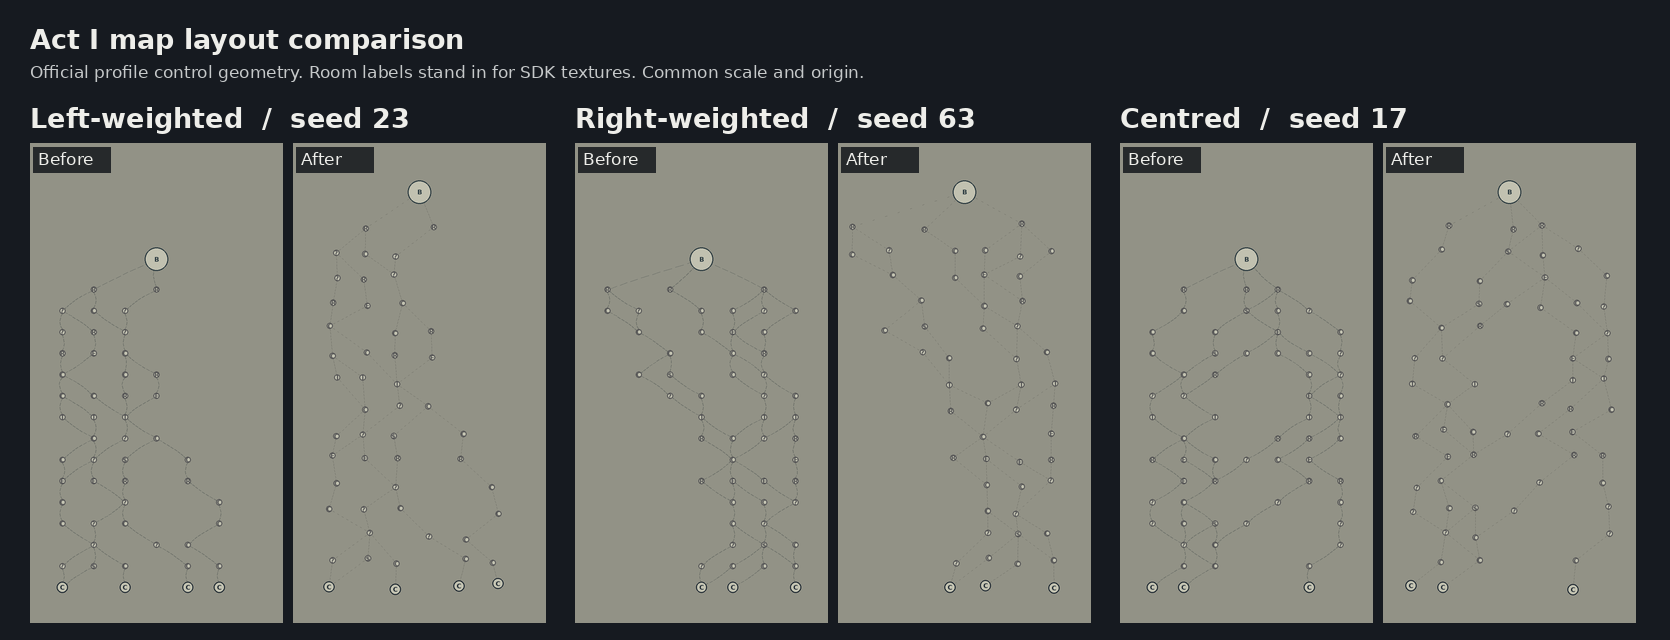
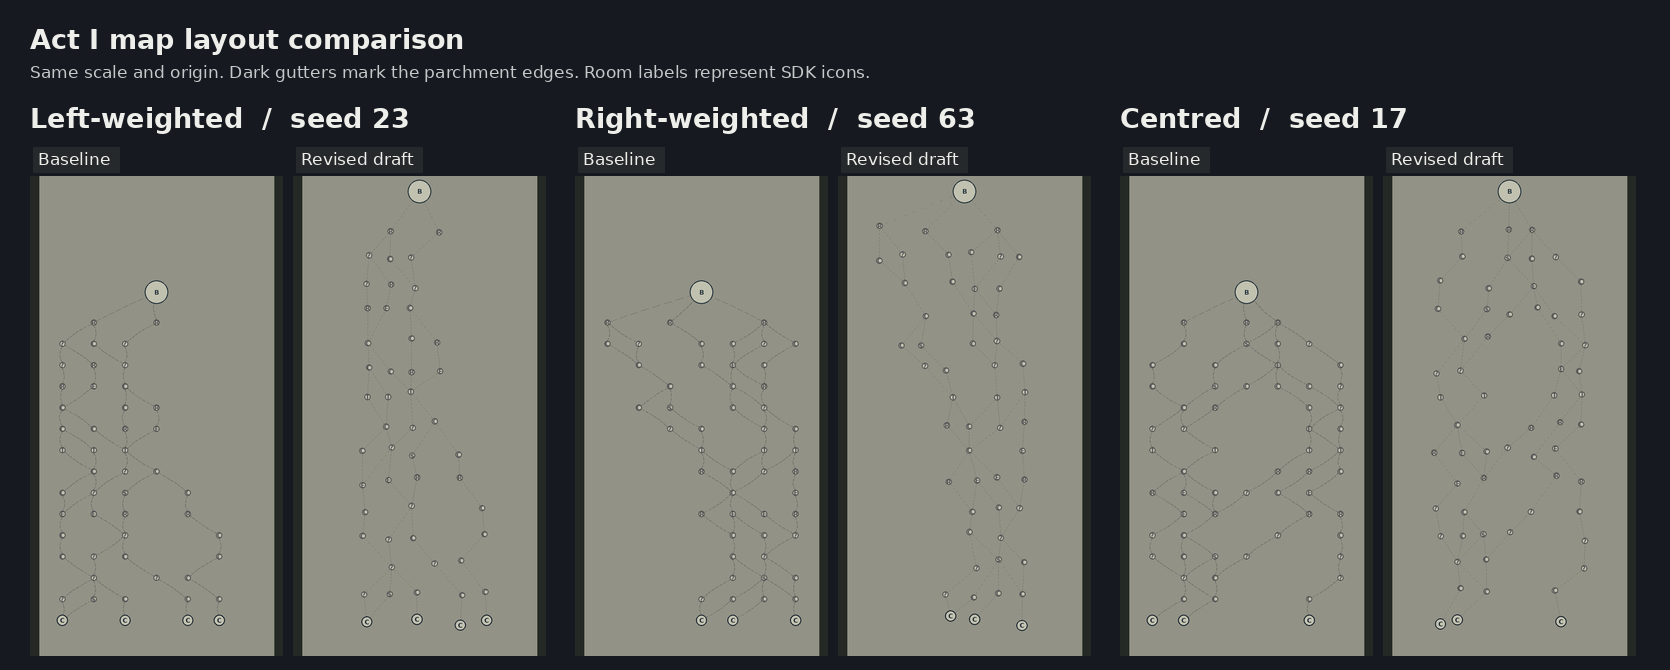
fix(map): match STS1 paper margins and hover feedback
[skip ci]

diff --git a/docs/evidence/v2.3.0-map-layout/compare.py b/docs/evidence/v2.3.0-map-layout/compare.py
@@ -41,17 +41,45 @@ def measurements(rows):
     }
 
 
-def projection(directory, seed, scale):
-    paper = Image.new("RGBA", (253 * 3, 480 * 3), "#929286")
+def starting_rows(directory):
+    sparse = []
+    for line in (directory / "batch.tsv").read_text().splitlines():
+        if not line.startswith("ENTRY\t"):
+            continue
+        _, seed, act, lanes, anchors = line.split("\t")
+        slots = list(map(int, lanes.split(",")))
+        xs = list(map(float, anchors.split(",")))
+        if len(slots) <= 3:
+            sparse.append((seed, act, slots, xs))
+    return {
+        "mapsWithTwoOrThreeEntrances": len(sparse),
+        "allEntranceColumnsOnOneSide": sum(max(slots)<4 or min(slots)>4 for _, _, slots, _ in sparse),
+        "allEntranceAnchorsOnOneSide": sum(max(xs)<0 or min(xs)>0 for _, _, _, xs in sparse),
+        "examples": [
+            {"seed": seed, "act": act, "lanes": slots, "anchors": xs}
+            for seed, act, slots, xs in sparse if (seed, act) in {("4", "1"), ("19", "1"), ("49", "2")}
+        ],
+    }
+
+
+def projection(directory, seed, scale, width=253, height=480, origin_y=375):
+    paper = Image.new("RGBA", (width * 3, height * 3), "#252925")
+    # The official map clips nodes in a wider viewport than the parchment.
+    # Keep both physical paper edges visible to expose the route margins.
+    paper_left = round((width / 2 - 418.5 * scale) * 3)
+    paper_right = round((width / 2 + 419.5 * scale) * 3)
+    ImageDraw.Draw(paper).rectangle((paper_left, 0, paper_right, paper.height), fill="#929286")
     plane = Image.new("RGBA", paper.size)
     draw = ImageDraw.Draw(plane)
     font = ImageFont.truetype("DejaVuSans-Bold.ttf", 19)
     points = []
     for line in (directory / "draw.tsv").read_text().splitlines():
-        tag, key, kind, x, y, first, second, last, tint = line.split("\t")
-        if tag != "DRAW" or int(key) != seed:
+        if not line.startswith("DRAW\t"):
             continue
-        px, py = (126.5 + float(x) * scale) * 3, (375 - float(y) * scale) * 3
+        _, key, kind, x, y, first, second, last, tint = line.split("\t")
+        if int(key) != seed:
+            continue
+        px, py = (width / 2 + float(x) * scale) * 3, (origin_y - float(y) * scale) * 3
         rgba = tuple(map(int, tint.split(",")))
         if kind == "node":
             points.append((px, py - float(second) * scale * 3, GLYPHS[last], float(first), rgba))
@@ -63,36 +91,90 @@ def projection(directory, seed, scale):
         radius = min(22, size * scale * .5) * 3
         draw.ellipse((x-radius, y-radius, x+radius, y+radius), fill=(193, 193, 176, 255), outline=rgba, width=3)
         draw.text((x, y), label, font=font, fill=rgba, anchor="mm")
-    return Image.alpha_composite(paper, plane).resize((253, 480), Image.Resampling.LANCZOS).convert("RGB")
+    return Image.alpha_composite(paper, plane).resize((width, height), Image.Resampling.LANCZOS).convert("RGB")
+
+
+def comparison_sheet(before, after, before_caption, after_caption, output):
+    canvas = Image.new("RGB", (1670, 670), "#161A20")
+    draw = ImageDraw.Draw(canvas)
+    title = ImageFont.truetype("DejaVuSans-Bold.ttf", 27)
+    small = ImageFont.truetype("DejaVuSans.ttf", 17)
+    draw.text((30, 23), "Act I map layout comparison", font=title, fill="#EEEEEA")
+    draw.text((30, 62), "Same scale and origin. Dark gutters mark the parchment edges. Room labels represent SDK icons.", font=small, fill="#C6C9CA")
+    for column, (seed, label) in enumerate(SEEDS.items()):
+        x = 30 + column * 545
+        draw.text((x, 102), f"{label}  /  seed {seed}", font=title, fill="#EEEEEA")
+        for offset, directory, caption in ((0, before, before_caption), (263, after, after_caption)):
+            canvas.paste(projection(directory, seed, .28), (x+offset, 176))
+            width = round(draw.textlength(caption, font=small)) + 14
+            draw.rectangle((x+offset+3, 147, x+offset+3+width, 172), fill="#26292B")
+            draw.text((x+offset+8, 149), caption, font=small, fill="#EEEEEA")
+    canvas.save(output)
+
+
+def hover_sample(directory, output):
+    lines = (directory / "draw.tsv").read_text().splitlines()
+    example = next((line for line in lines if line.startswith("HOVER\t17\t")), None)
+    if not example:
+        return
+    _, _, rim, idle_icon, hover_icon, kind, r, g, b, alpha = example.split("\t")
+    assert alpha == "255"
+    rim, idle_icon, hover_icon = map(float, (rim, idle_icon, hover_icon))
+    canvas = Image.new("RGB", (490, 220), "#161A20")
+    draw = ImageDraw.Draw(canvas)
+    label = ImageFont.truetype("DejaVuSans.ttf", 16)
+    glyph = ImageFont.truetype("DejaVuSans-Bold.ttf", 40)
+    draw.text((16, 13), "Available room hover  /  control geometry at 2×", font=label, fill="#EEEEEA")
+    for x, caption, icon in ((16, "Idle", idle_icon), (254, "Mouse hover", hover_icon)):
+        draw.rectangle((x, 43, x+220, 202), fill="#929286")
+        draw.text((x+8, 48), caption, font=label, fill="#17212B")
+        cx, cy = x+110, 129
+        if caption == "Mouse hover":
+            draw.ellipse((cx-rim, cy-rim, cx+rim, cy+rim), outline=(int(r), int(g), int(b)), width=4)
+        draw.ellipse((cx-icon, cy-icon, cx+icon, cy+icon), outline="#17212B", width=2)
+        draw.text((cx, cy), GLYPHS[kind], font=glyph, fill="#17212B", anchor="mm")
+    canvas.save(output)
+
+
+def entrance_sheet(directory, output):
+    scale = .42
+    width, height = 385, round(550 * scale)
+    canvas = Image.new("RGB", (1210, 325), "#161A20")
+    draw = ImageDraw.Draw(canvas)
+    font = ImageFont.truetype("DejaVuSans.ttf", 19)
+    draw.text((15, 12), "Act opening viewport  /  two entrances on their generated columns", font=font, fill="#EEEEEA")
+    for index, (seed, caption) in enumerate(((4, "Act I · seed 4 · lanes 1 and 3"),
+                                               (19, "Act I · seed 19 · lanes 3 and 5"),
+                                               (49, "Act II · seed 49 · lanes 5 and 6"))):
+        x = 15 + index * 400
+        draw.text((x, 50), caption, font=font, fill="#EEEEEA")
+        image = projection(directory, seed, scale, width, height, 242 * scale)
+        canvas.paste(image, (x, 79))
+    canvas.save(output)
 
 
 def main():
     parser = argparse.ArgumentParser()
     for argument in ("before", "after", "output"):
         parser.add_argument(argument, type=Path)
+    parser.add_argument("--previous-draft", type=Path)
+    parser.add_argument("--entrances", type=Path)
     args = parser.parse_args()
     before, original = sweep(args.before)
     after, candidate = sweep(args.after)
     assert original == candidate, "map snapshot or RNG state changed"
     report = {"seedCount": 128, "snapshotSha256": hashlib.sha256(original.encode()).hexdigest(),
-              "before": measurements(before), "after": measurements(after)}
+              "before": measurements(before), "after": measurements(after),
+              "startingRows": starting_rows(args.after)}
     args.output.mkdir(parents=True, exist_ok=True)
     (args.output / "batch-summary.json").write_text(json.dumps(report, indent=2) + "\n")
-    canvas = Image.new("RGB", (1670, 640), "#161A20")
-    draw = ImageDraw.Draw(canvas)
-    title = ImageFont.truetype("DejaVuSans-Bold.ttf", 27)
-    small = ImageFont.truetype("DejaVuSans.ttf", 17)
-    draw.text((30, 23), "Act I map layout comparison", font=title, fill="#EEEEEA")
-    draw.text((30, 62), "Official profile control geometry. Room labels stand in for SDK textures. Common scale and origin.", font=small, fill="#C6C9CA")
-    for column, (seed, label) in enumerate(SEEDS.items()):
-        x = 30 + column * 545
-        draw.text((x, 102), f"{label}  /  seed {seed}", font=title, fill="#EEEEEA")
-        for offset, directory, caption in ((0, args.before, "Before"), (263, args.after, "After")):
-            image = projection(directory, seed, .28)
-            canvas.paste(image, (x+offset, 143))
-            draw.rectangle((x+offset+3, 147, x+offset+80, 172), fill="#26292B")
-            draw.text((x+offset+8, 149), caption, font=small, fill="#EEEEEA")
-    canvas.save(args.output / "before-after.png")
+    comparison_sheet(args.before, args.after, "Baseline", "Revised draft", args.output / "before-after.png")
+    hover_sample(args.after, args.output / "hover.png")
+    if args.entrances:
+        entrance_sheet(args.entrances, args.output / "entrance-rows.png")
+    if args.previous_draft:
+        comparison_sheet(args.previous_draft, args.after, "Previous draft", "Revised draft",
+                         args.output / "draft-comparison.png")
 
 
 if __name__ == "__main__":

diff --git a/docs/evidence/v2.3.0-map-layout/README.md b/docs/evidence/v2.3.0-map-layout/README.md
@@ -1,39 +1,47 @@
 # v2.3.0 地图布局离线证据
 
-TASK-116 · 固定基线 `32a15219aecd145c59cb1b2fcf477e5556766e5d`。采用 STS1 实际反编译源码及三张不同种子的原版画面作为参照。 [源码、实拍和适配参数](REFERENCE.md)
+TASK-116 · 固定基线 `32a15219aecd145c59cb1b2fcf477e5556766e5d`。采用 STS1 实际反编译源码及不同种子的原版画面作为参照。 [源码、实拍和适配参数](REFERENCE.md)
 
-![第一幕偏左、偏右和居中种子的修改前后对照](before-after.png)
+![上一版 Draft 与修订版在相同纸面上的对照](draft-comparison.png)
 
-前后图使用正式配置生成的控件，通过真实 Lua MapUI 绘制并导出坐标、尺寸与颜色。图中房型字母代替 SDK 纹理，六幅图共用横纵比例和原点。前三组对应基线第一幕最偏左、最偏右和居中的种子；原版实拍来自另几个种子，用来比较布局和画法。
+[打开原始基线与修订版对照](before-after.png) · [打开悬停控件几何示意](hover.png) · [打开 STS1 悬停实拍](https://interfaceingame.com/screenshots/slay-the-spire-map/)
+
+投影使用正式配置生成的控件，通过真实 Lua MapUI 绘制并导出坐标、尺寸与颜色。图中房型字母代替 SDK 纹理，六幅图共用横纵比例和原点。前三组对应基线第一幕最偏左、最偏右和居中的种子；原版实拍来自另几个种子，用来比较布局和画法。
 
 | 离线检查 | 基线 | 候选 |
 | --- | ---: | ---: |
 | 种子 × 幕 | 128 × 3 | 128 × 3 |
-| 常规节点横向质心的绝对偏移均值 | 40.28 | 16.63 |
-| 常规节点横向跨度均值 | 664.71 | 711.39 |
+| 常规节点横向质心的绝对偏移均值 | 40.28 | 5.69 |
+| 常规节点横向跨度均值 | 664.71 | 530.99 |
 | 渲染遍历 | 2,816 | 2,816 |
-| 绑定及首绘平均 Lua CPU 时间 | 1.018 ms | 0.885 ms |
-| 滚动重绘平均 Lua CPU 时间 | 0.862 ms | 0.635 ms |
+| 绑定及首绘平均 Lua CPU 时间 | 1.018 ms | 0.804 ms |
+| 滚动重绘平均 Lua CPU 时间 | 0.862 ms | 0.638 ms |
 | 最大节点数 / 已画路线数 | 74 / 85 | 74 / 85 |
 | 正式配置生成控件数 / 单容器最多子控件 | 26,714 / 60 | 26,714 / 60 |
-| 本地打包 Lua 输入大小 | 5,511,922 B | 5,516,970 B |
+| 本地打包 Lua 输入大小 | 5,511,922 B | 5,517,618 B |
 
-384 份地图快照逐字节一致，包含节点、房型、拓扑和地图 RNG 状态。遍历验证同一节点滚动时绝对坐标稳定，热区无重叠，所有可绘房间和路线均能滚动进入视野；常规连线中心线交叉数为零。触控探针按 2556×1179 和正式移动 HUD 的地图上缘，在三个种子上验证选点、跨触点拒绝、背景拖动、回焦、上限首领及存档恢复后触区位置。同一正式配置的生成布局和模板逐字节一致，包含 HUD 与图例。 [批量结果](batch-summary.json)
+384 份地图快照逐字节一致，包含节点、房型、拓扑和地图 RNG 状态。遍历验证同一节点滚动时绝对坐标稳定，热区无重叠，所有可绘房间和路线均能滚动进入视野；常规连线中心线交叉数为零。触控探针按 2556×1179 和正式移动 HUD 的地图上缘，在三个种子上验证选点、跨触点拒绝、背景拖动、回焦、上限首领及存档恢复后触区位置。同一正式配置的生成布局和模板逐字节一致，包含 HUD 与图例。修订版探针还检查全部常规节点在纸内的水平上限，以及可达节点悬停、移出和滚动清除描边。 [批量结果](batch-summary.json)
+
+## 开局稀疏入口
+
+![两个入口的偏左、分布较开、偏右开局视窗](entrance-rows.png)
+
+384 张项目地图中，220 张底层只有两或三个入口。4 张的入口逻辑列全在同一侧，修订后有 9 张的入口实际坐标全在同一侧。例子中，第一幕种子 4 的两个起点仍在第 1、3 列，第一幕种子 19 仍在第 3、5 列，第二幕种子 49 仍在第 5、6 列。上述比例来自项目离线样本。 [原版底层实拍与源码核对](REFERENCE.md#最底一层的稀疏入口)
 
 CPU 时间来自同机 Lua 5.3.6 的纯离线控件仿真，包含原有写入流程。官方编辑器容量、实际渲染帧率和实体触屏待同一候选验收。Draft 保持独立评审状态。
 
 ## 复现
 
-在基线和候选各自的工作树执行。首次使用先安装仓库锁定依赖并拉取构建所需 LFS 对象。两轮分别设置各自的 `ARTIFACT`，并让 `PROBE` 指向候选工作树的 `probe.lua`。
+在基线和候选各自的工作树执行。首次使用先安装仓库锁定依赖并拉取构建所需 LFS 对象。各轮分别设置 `ARTIFACT`，让 `PROBE` 指向候选工作树的 `probe.lua`。修订版运行时设 `MAP_REFINED=1`，另外检查纸边和悬停。基线和上一版 Draft 不设该变量。
 
 ```sh
 node scripts/build-lua-data.mjs data "$ARTIFACT/lua/abyss_data.lua"
-node scripts/build-ui.mjs "$ARTIFACT/lua" --official-assets --native-page-lifecycle
+node --input-type=module -e "import {buildUI} from './scripts/build-ui.mjs'; buildUI(process.argv[1], undefined, {officialAssets:true, nativePageLifecycle:true})" "$ARTIFACT/lua"
 LUA_PATH="$ARTIFACT/lua/?.lua;src/lua/?.lua;;" lua5.3 "$PROBE" > "$ARTIFACT/batch.tsv"
 MAP_CAPTURE='23 63 17' LUA_PATH="$ARTIFACT/lua/?.lua;src/lua/?.lua;;" lua5.3 "$PROBE" > "$ARTIFACT/draw.tsv"
 ```
 
-用 Pillow 渲染并比对两份批量日志。
+用 Pillow 渲染并比对批量日志。另用 `MAP_CAPTURE="4:1 19:1 49:2"` 导出开局画面，交给 `--entrances`。使用 `--previous-draft` 指到上一版 Draft 提交 `bf0d37be` 的结果目录，可重建第二组对照。
 
 ```sh
 python docs/evidence/v2.3.0-map-layout/compare.py "$BEFORE" "$AFTER" "$REPORT"

diff --git a/docs/evidence/v2.3.0-map-layout/REFERENCE.md b/docs/evidence/v2.3.0-map-layout/REFERENCE.md
@@ -2,12 +2,25 @@
 
 固定来源为 STS1 Java 反编译快照 `319009d5df0a82d9fb0f23cc22322286c6a87ec0`。桌面列距 128、层距 150，节点中心扰动上限为横向 27、纵向 37。节点绘制和命中框使用同一偏移。连线读取两端偏移并在连线上排布图元，桌面点距 17、源端留 29、目标端留 20，禁用线黑色透明度 25%。点纹理的内部位置和角度有轻微变化。 [MapRoomNode](https://github.com/aeubanks/sts/blob/319009d5df0a82d9fb0f23cc22322286c6a87ec0/map/MapRoomNode.java) · [Settings](https://github.com/aeubanks/sts/blob/319009d5df0a82d9fb0f23cc22322286c6a87ec0/core/Settings.java) · [MapEdge](https://github.com/aeubanks/sts/blob/319009d5df0a82d9fb0f23cc22322286c6a87ec0/map/MapEdge.java) · [MapDot](https://github.com/aeubanks/sts/blob/319009d5df0a82d9fb0f23cc22322286c6a87ec0/vfx/MapDot.java)
 
-| 原版第一幕实拍 | 核对内容 |
+| STS1 原版实拍 | 核对内容 |
 | --- | --- |
 | `1N5BTEWR0Z7YR` | 同一名义层的图标有高度差，支路在可见区逐层合并，短虚线离图标边缘留空。 [原图](https://i.imgur.com/iJXVehw.jpeg) · [种子来源](https://www.reddit.com/r/slaythespire/comments/1kdfsnu/a_no_good_awful_map_for_silent/) |
 | `5ATZ1CBFWOLV8` | 多条不对称分支跨越同一层，平行线段之间保留可辨间距。 [原图](https://i.redd.it/a5ehty273dse1.jpeg) · [种子来源](https://www.reddit.com/r/slaythespire/comments/1jphokz/ive_always_heard_of_the_wall_of_death_but_this_is/) |
 | `288WT2429IRM` | 地图上部汇入固定居中首领。斜线上的重复短笔划弱于节点图案。 [原图所在投影片第 34 页](https://www.cs.cornell.edu/courses/cs5152/2025sp/lectures/lecture14/slides-14.pdf#page=34) |
+| Interface In Game（第二幕，v2.0） | 可达宝箱悬停时显示近白底层描边，墨色图标仍在上面。在缩到 1100×619 的原图中，纸面约为 x=187–915，外侧可见节点约为 x=315–775。该窗口的节点中心横向覆盖约为纸面的 63%。 [原图](https://interfaceingame.com/wp-content/uploads/slay-the-spire/slay-the-spire-map.jpg) · [出处](https://interfaceingame.com/screenshots/slay-the-spire-map/) |
 
-项目适配采用 116 列距和 92 层距，横纵扰动上限分别为 16 和 14。纵向收紧扰动以保留至少 64 的相邻常规层中心距和 56×56 的现有热区。常规层整体可向视口中心平移最多 40，按边界裁限。首领继续居中。坐标由地图种子、相对层和列生成，运行时使用现有投影和触区。
+## 最底一层的稀疏入口
+
+- 一张开局实拍中的三个入口集中在纸面中间约 40% 的区间，对应缩到 1000 像素宽时的 x≈353、496、620。悬停的左侧入口有白色轮廓。 [开局实拍](https://www.davetech.co.uk/pages/gamedevlevelselect/i/slay-the-spire-level-select.jpg) · [出处](https://www.davetech.co.uk/gamedevlevelselect)
+- 另一张已经走到第 2 层、仍看得到底边的实拍里，两个底层入口约在 x=285、636，占纸面宽度约 53%。不同种子可产生不同宽度和重心。 [低层实拍](https://d1lss44hh2trtw.cloudfront.net/assets/editorial/2019/01/slay-the-spire-dungeon-crawler-map.jpg) · [出处](https://www.shacknews.com/article/109630/slay-the-spire-review-a-brilliant-mash-up-of-genres)
+- `MapGenerator.createPaths` 从列 0–6 抽入口，只要求前两次起点不同。绘制直接读取房间的逻辑列和扰动。两个入口可以落在相邻列或同侧，也可以相隔多列。截图是两个具体例子，同侧的可能性来自源码中的列约束。 [MapGenerator](https://github.com/aeubanks/sts/blob/319009d5df0a82d9fb0f23cc22322286c6a87ec0/map/MapGenerator.java) · [MapRoomNode](https://github.com/aeubanks/sts/blob/319009d5df0a82d9fb0f23cc22322286c6a87ec0/map/MapRoomNode.java)
+
+## 项目适配
+
+原版在 1920×1080 下的七列名义跨度为 768，纸面约宽 1280，名义覆盖 60%。上一版项目 Draft 的名义跨度为 696，约占现有 838 宽纸面的 83%。修订后的 86 列距在同一纸面上覆盖 62%。以原版的层列比例 150:128 为依据，层距取 100。横纵扰动上限是 14 与 18，使相邻同层节点中心至少相隔 58、相邻常规层至少相隔 64，保留 56×56 触区。
+
+常规节点整体最多平移 64，中心点限制在 x=±304 的纸内区域。保留支路的自然偏向与首领的居中位置。坐标由地图种子、相对层和列生成，运行时使用现有投影和触区。
+
+原版 `MapRoomNode.render` 在高亮时先绘浅色房型轮廓，再绘墨色图标。项目复用图标下方的环形控件呈现近白轮廓，保持现有图标、控件数量和点击范围。 [原版悬停画面](https://interfaceingame.com/screenshots/slay-the-spire-map/)
 
 线段沿两端的共享坐标轴排列，点距从 11 起，较长的斜线拉长点距以容纳在八个图元中。禁用线采用原版的 25% 黑色透明度，行经和可达路线保留项目墨色及满不透明度。短笔划使用现有图元。 [项目复测与视觉对照](README.md)

diff --git a/backlog/tasks/task-116 - 优化地图节点与虚线的视觉布局.md b/backlog/tasks/task-116 - 优化地图节点与虚线的视觉布局.md
@@ -5,7 +5,7 @@ status: In Progress
 assignee:
   - Furinya
 created_date: '2026-11-28 02:36'
-updated_date: '2026-11-28 02:53'
+updated_date: '2026-11-28 03:04'
 labels:
   - v2.3.0
 milestone: m-8
@@ -56,4 +56,8 @@ ordinal: 226000
 Fork A 分支 feat/v230-map-visual-layout。以 develop 32a15219aecd145c59cb1b2fcf477e5556766e5d 为固定评审基线。128 种子、384 张地图离线通过，地图快照一致，控件树和模板一致。待 Owner 评审及实体设备验收。
 
 Fork A Draft #5 已建，固定评审基线 review/v2.3.0-map-base，已验证代码提交 bf0d37becc057368a8dcb9321d0b7bcb4c451deb。Owner 评审后再安排同候选设备与官方编辑器容量验收。
+
+Owner 复核后按 STS1 约六成纸面宽度重校。列距 86、层距 100，三组地图补做纸边同尺度对照。复用现有环形控件给可达房间增加白色悬停轮廓。384 张地图重跑并校验触区和悬停清除。
+
+已核对原版开局实拍与 MapGenerator 源码。底层入口按随机列绘制，可集中或偏侧。本项目 384 张离线样本中 220 张有 2–3 个入口，覆盖保留偏左、分布较开、偏右的双入口实例。
 <!-- SECTION:NOTES:END -->
